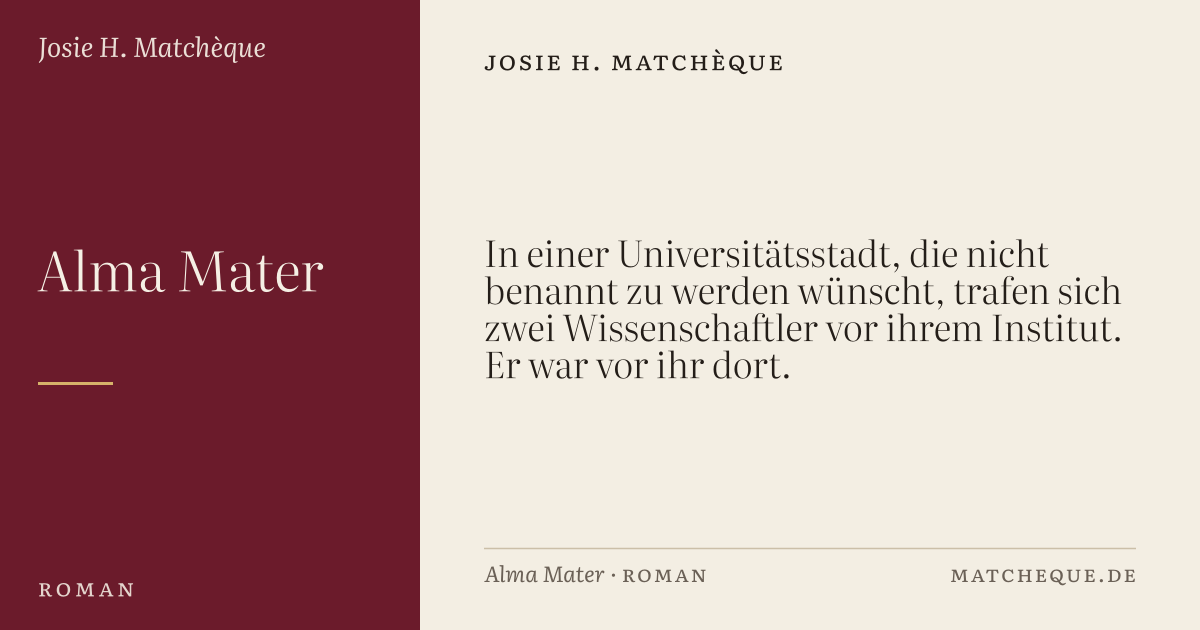
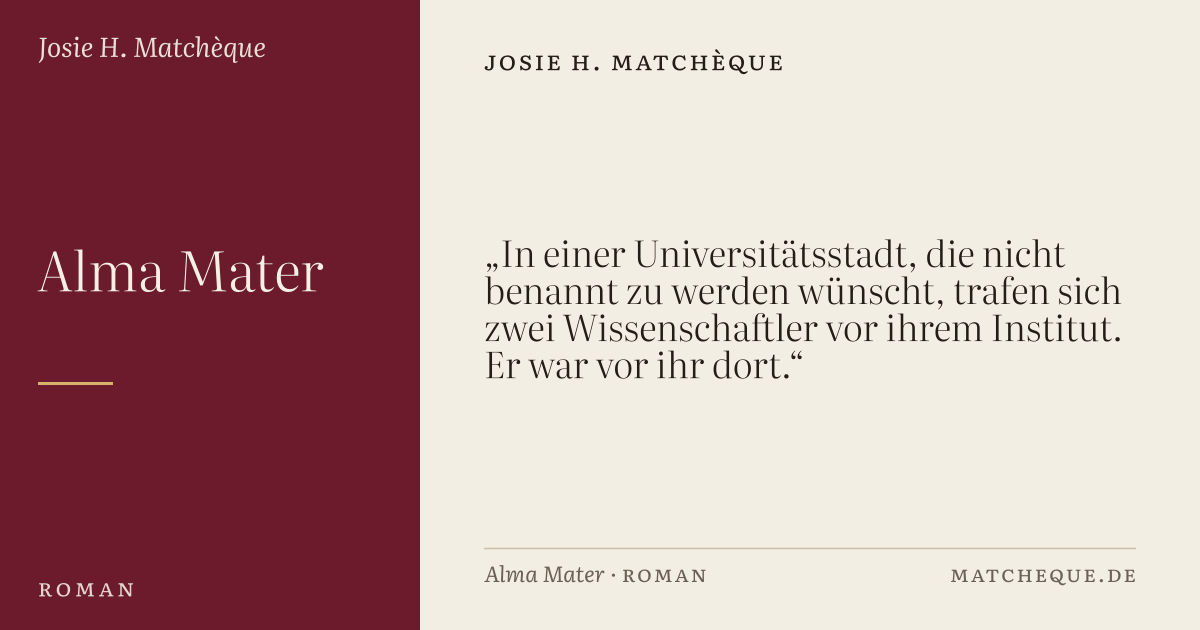
Apply feedback: quotes, quote animation, agents page, footer order
- First sentences on the homepage set in quotation marks.
- Alma Mater in italics in the news line.
- Quote gallery: cross-fade with movement and a timeline that fills
  until the next quote; fixed height so nothing jumps.
- Agents page: "frei" label for Der Pfau, Genre "Literarische Fiktion"
  instead of Stil, language row removed.
- Footer: Kolophon between Datenschutz and Nutzungsbedingungen.

Changed region(s): [[0.4008, 0.3619, 0.8942, 0.4222]]

diff --git a/src/assets/css/site.css b/src/assets/css/site.css
@@ -221,8 +221,6 @@ a:hover { text-decoration-color: currentColor; }
 .zitate .abschnitt-titel { justify-content: center; }
 .zitate .abschnitt-titel::before { content: ""; flex: 0 0 2.5rem; height: 0; border-top: 1px solid var(--linie); }
 .zitate-liste { list-style: none; margin: 0; padding: 0; display: grid; gap: 2.5rem; }
-.zitate.bereit .zitate-liste { gap: 0; }
-.zitate.bereit .zitate-liste > li { grid-area: 1 / 1; }
 .zitate-liste > li { margin: 0; }
 .zitat { margin: 0; }
 .zitat p { margin: 0; font-style: italic; font-weight: 300; font-size: clamp(1.45rem, 1rem + 1.6vw, 2.2rem); line-height: 1.32; text-wrap: balance; }
@@ -230,14 +228,30 @@ a:hover { text-decoration-color: currentColor; }
 .zitat-quelle cite { font-variant-caps: normal; letter-spacing: 0; font-style: italic; color: var(--buch, var(--tinte)); }
 .zitat-quelle a { text-decoration: none; }
 .zitat-quelle a:hover cite { text-decoration: underline; }
-.zitate-steuerung { display: none; justify-content: center; align-items: center; gap: 1rem; margin-top: 1.8rem; font-size: 1.05rem; color: var(--bleistift); }
+
+/* Mit JavaScript: alle Zitate liegen übereinander (die Höhe richtet sich nach dem längsten, nichts springt),
+   eines ist sichtbar. Beim Wechsel blendet das alte nach oben aus und das neue von unten ein. */
+.zitate.bereit .zitate-liste { gap: 0; align-items: center; }
+.zitate.bereit .zitate-liste > li { grid-area: 1 / 1; opacity: 0; visibility: hidden; transform: translateY(1rem); transition: opacity 0.7s ease, transform 0.7s ease, visibility 0s linear 0.7s; }
+.zitate.bereit .zitate-liste > li.weg { transform: translateY(-1rem); }
+.zitate.bereit .zitate-liste > li.aktiv { opacity: 1; visibility: visible; transform: none; transition: opacity 0.9s ease 0.35s, transform 0.9s ease 0.35s, visibility 0s; }
+
+/* Zeitleiste: füllt sich bis zum nächsten Zitat, steht still beim Anhalten oder mit der Maus darüber. */
+.zitate-uhr { display: none; position: relative; height: 1px; width: min(14rem, 60%); margin: 2rem auto 0; background: var(--linie); overflow: hidden; }
+.zitate-uhr::after { content: ""; position: absolute; inset: -1px 0; background: var(--siegel); transform-origin: 0 50%; transform: scaleX(0); }
+.zitate.bereit.laeuft .zitate-uhr { display: block; }
+.zitate.laeuft .zitate-uhr::after { animation: zitat-uhr 9s linear forwards; }
+.zitate.laeuft.wartet .zitate-uhr::after { animation-play-state: paused; }
+@keyframes zitat-uhr { to { transform: scaleX(1); } }
+
+.zitate-steuerung { display: none; justify-content: center; align-items: center; gap: 1rem; margin-top: 1rem; font-size: 1.05rem; color: var(--bleistift); }
 .zitate.bereit .zitate-steuerung { display: flex; }
 .zitate-steuerung button { font: inherit; color: inherit; letter-spacing: inherit; font-variant-caps: inherit; background: none; border: 0; padding: 0.4rem 0.5rem; cursor: pointer; text-decoration: underline; text-decoration-color: transparent; text-underline-offset: 0.25em; }
 .zitate-steuerung button:hover { color: var(--tinte); text-decoration-color: currentColor; }
 .zitate-zaehler { font-variant-numeric: oldstyle-nums tabular-nums; min-width: 4.5em; }
-@media (prefers-reduced-motion: no-preference) {
-  .zitate.bereit .zitate-liste > li:not([hidden]) { animation: einblenden 0.7s ease both; }
-  @keyframes einblenden { from { opacity: 0; } to { opacity: 1; } }
+
+@media (prefers-reduced-motion: reduce) {
+  .zitate.bereit .zitate-liste > li, .zitate.bereit .zitate-liste > li.aktiv { transition: none; transform: none; }
 }
 
 /* Vorstellung */
@@ -378,6 +392,7 @@ section + section > .abschnitt-titel, .buch-text > section + section .abschnitt-
 .buch .zitate .abschnitt-titel { justify-content: flex-start; }
 .buch .zitate .abschnitt-titel::before { display: none; }
 .buch .zitate-steuerung { justify-content: flex-start; }
+.buch .zitate-uhr { margin-left: 0; }
 .buch .zitat p { font-size: clamp(1.3rem, 1rem + 1vw, 1.7rem); text-wrap: pretty; }
 
 .buch-fakten { font-size: 1rem; line-height: 1.45; }
@@ -456,7 +471,8 @@ section + section > .abschnitt-titel, .buch-text > section + section .abschnitt-
 .tabelle tbody th a { text-decoration: none; }
 .tabelle tbody th a:hover { text-decoration: underline; }
 .tabelle .zahl { text-align: right; }
-.angeboten { font-variant-caps: all-small-caps; letter-spacing: 0.07em; color: var(--siegel); font-style: normal; font-size: 0.75em; margin-left: 0.4em; white-space: nowrap; }
+.angeboten, .frei { font-variant-caps: all-small-caps; letter-spacing: 0.07em; color: var(--siegel); font-style: normal; font-size: 0.75em; margin-left: 0.4em; white-space: nowrap; }
+.frei { color: #2c6a3f; }
 
 @media (max-width: 40em) {
   .tabelle { min-width: 0; }

diff --git a/src/assets/js/zitate.js b/src/assets/js/zitate.js
@@ -1,4 +1,6 @@
 // Wechselnde Zitate: zeigt eines nach dem anderen, in zufälliger Reihenfolge.
+// Die Zeitleiste unter dem Zitat ist die Uhr: Ist sie voll, kommt das nächste.
+// Mit der Maus oder dem Tastaturfokus im Bereich hält sie an.
 // Ohne JavaScript stehen alle Zitate untereinander. Bei „Bewegung reduzieren“ wechselt nichts von allein.
 const ruhig = matchMedia("(prefers-reduced-motion: reduce)").matches;
 
@@ -8,36 +10,44 @@ for (const bereich of document.querySelectorAll("[data-zitate]")) {
 
   const reihenfolge = eintraege.map((_, i) => i).sort(() => Math.random() - 0.5);
   const zaehler = bereich.querySelector(".zitate-zaehler");
+  const uhr = bereich.querySelector(".zitate-uhr");
   const pause = bereich.querySelector("[data-pause]");
-  let stelle = 0;
+  let stelle = -1;
   let angehalten = ruhig;
-  let uhr = null;
 
   function zeigen(neu) {
+    const vorher = eintraege[reihenfolge[stelle]];
     stelle = (neu + reihenfolge.length) % reihenfolge.length;
-    eintraege.forEach((e, i) => (e.hidden = i !== reihenfolge[stelle]));
+    const jetzt = eintraege[reihenfolge[stelle]];
+    for (const e of eintraege) {
+      e.classList.toggle("aktiv", e === jetzt);
+      e.classList.toggle("weg", e === vorher && e !== jetzt);
+      e.setAttribute("aria-hidden", String(e !== jetzt));
+    }
     zaehler.textContent = `${stelle + 1} von ${reihenfolge.length}`;
-  }
-  function planen() {
-    clearInterval(uhr);
-    if (!angehalten) uhr = setInterval(() => zeigen(stelle + 1), 9000);
+    // Zeitleiste neu starten
+    bereich.classList.remove("laeuft");
+    void uhr.offsetWidth;
+    if (!angehalten) bereich.classList.add("laeuft");
   }
   function setzePause(wert) {
     angehalten = wert;
     pause.setAttribute("aria-pressed", String(wert));
     pause.textContent = wert ? "abspielen" : "anhalten";
-    planen();
+    bereich.classList.toggle("laeuft", !wert);
   }
 
-  bereich.querySelector("[data-weiter]").addEventListener("click", () => { zeigen(stelle + 1); planen(); });
-  bereich.querySelector("[data-zurueck]").addEventListener("click", () => { zeigen(stelle - 1); planen(); });
+  uhr.addEventListener("animationend", () => zeigen(stelle + 1));
+  bereich.querySelector("[data-weiter]").addEventListener("click", () => zeigen(stelle + 1));
+  bereich.querySelector("[data-zurueck]").addEventListener("click", () => zeigen(stelle - 1));
   pause.addEventListener("click", () => setzePause(!angehalten));
-  bereich.addEventListener("mouseenter", () => clearInterval(uhr));
-  bereich.addEventListener("mouseleave", planen);
-  bereich.addEventListener("focusin", () => clearInterval(uhr));
-  bereich.addEventListener("focusout", planen);
+  const warten = (an) => bereich.classList.toggle("wartet", an);
+  bereich.addEventListener("mouseenter", () => warten(true));
+  bereich.addEventListener("mouseleave", () => warten(false));
+  bereich.addEventListener("focusin", () => warten(true));
+  bereich.addEventListener("focusout", () => warten(false));
 
   bereich.classList.add("bereit");
-  zeigen(0);
   setzePause(angehalten);
+  zeigen(0);
 }

diff --git a/eleventy.config.js b/eleventy.config.js
@@ -76,6 +76,13 @@ export default function (eleventyConfig) {
   // Schriftgröße eines ersten Satzes nach seiner Länge.
   eleventyConfig.addFilter("satzlaenge", (satz = "") => (satz.length < 130 ? "kurz" : satz.length < 260 ? "mittel" : "lang"));
 
+  // Zitat in deutsche Anführungszeichen setzen; Anführungen im Zitat werden zu einfachen.
+  eleventyConfig.addFilter("zitieren", (satz = "") => {
+    const text = String(satz).trim();
+    if (!text || istTodo(text)) return text;
+    return `„${text.replace(/„/g, "‚").replace(/[“”]/g, "‘")}“`;
+  });
+
   // Beginnt ein Satz mit einem Anführungszeichen, hängt es optisch in den Rand.
   eleventyConfig.addFilter("haengt", (satz = "") => /^[„“"»‚‘]/.test(satz.trim()));
 
